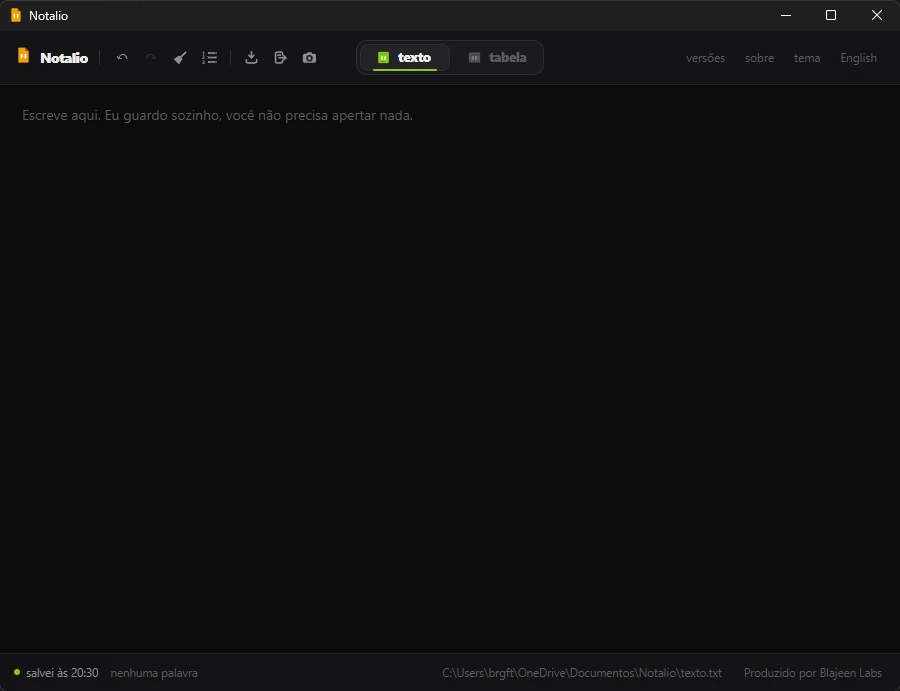
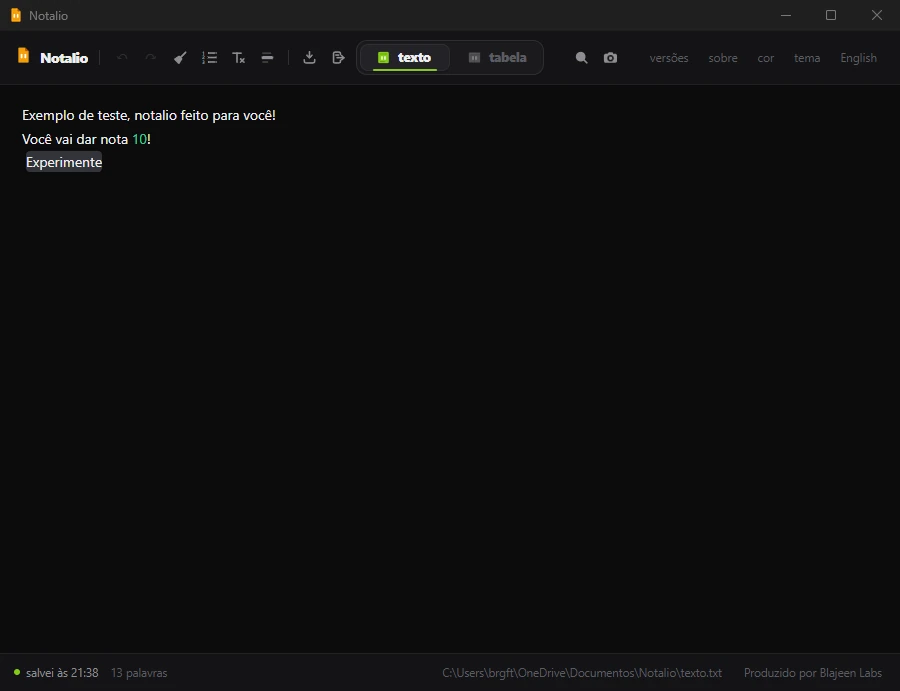
Notalio: marca-texto, cor da letra, e a captura atualizada
O programa ganhou três coisas desde a página ir ao ar, e página que fica pra trás do
programa mente por omissão.

Arrumar virou três itens em vez de um, porque viraram três coisas diferentes: arrumar
sem mexer na ordem, a lista com marca-texto e o botão de limpar, e as quatro cores de
letra. O marca-texto merece a explicação que ele tem: a marca fica dentro do arquivo,
escrita entre crases, então ela sobrevive a fechar o programa e o arquivo continua
abrindo no Bloco de Notas — que é a segunda promessa do produto, e ela não podia quebrar
por causa de um destaque cinza.

Ctrl+M e Ctrl+D entraram nos atalhos e no guia, e o Ctrl+L ganhou o Shift que troca
número por marcador. O item "cor" apareceu na lista da direita.

A captura é nova, e foi trocada porque a antiga mostrava uma barra de ferramentas que
não existe mais — faltavam a lupa, o limpar e o marca-texto. Nela dá pra ver as duas
coisas que só se entendem vendo: o retângulo cinza atrás de um trecho, e o número
saindo numa cor diferente do resto da linha.

Terceira recompilação, terceiro par de hashes. Conferi os quatro números contra os
arquivos antes de publicar, troquei os binários e as notas da release e o SHA256SUMS.

lint, typecheck, test (109), check:content e build passando.

diff --git a/src/content/produtos.ts b/src/content/produtos.ts
@@ -401,9 +401,9 @@ export const notalio: Aplicativo = {
   ],
   imagem: {
     src: '/produtos/notalio/tela.webp',
-    alt: 'A janela do Notalio no caderno de texto, com o interruptor que troca entre texto e tabela no alto, e a barra de baixo mostrando a hora em que ele guardou sozinho.',
+    alt: 'A janela do Notalio no caderno de texto, com três linhas escritas: uma delas tem um trecho marcado com um retângulo cinza atrás das letras, e o número dez aparece numa cor diferente do resto. No alto fica o interruptor que troca entre texto e tabela.',
     legenda:
-      'O caderno de texto. No alto, o interruptor que troca pro de tabela; embaixo, a hora em que ele guardou por conta própria.',
+      'O caderno de texto, com um trecho marcado e o número saindo na cor dele. No alto, o interruptor que troca pro caderno de tabela; embaixo, a hora em que ele guardou por conta própria.',
   },
   faz: [
     {
@@ -422,9 +422,19 @@ export const notalio: Aplicativo = {
         'Duas colunas com linhas de grade visíveis. Vírgula, aspas e quebra de linha dentro de uma célula são tratadas certo — e um arquivo salvo pelo Excel em português, que usa ponto e vírgula, continua abrindo.',
     },
     {
-      titulo: 'Arrumar e numerar',
+      titulo: 'Arruma sem mudar a sua ordem',
       texto:
-        'Arrumar tira linha repetida, deixa todo marcador de lista igual e aperta o espaçamento — sem nunca mudar a ordem do que você escreveu. Numerar põe 1-, 2-, 3- na frente das linhas que você marcou.',
+        'Tira linha repetida, deixa todo marcador de lista igual e aperta o espaçamento. Num brainstorm a ordem é o seu pensamento, e ele nunca mexe nela.',
+    },
+    {
+      titulo: 'Lista, marca-texto e limpar',
+      texto:
+        'Vira as linhas em lista com marcadores ou numerada. Destaca um trecho com um retângulo cinza atrás das letras — e essa marca fica dentro do arquivo, entre crases, então ela sobrevive a fechar o programa e continua abrindo no Bloco de Notas. E um botão que limpa tudo isso de volta.',
+    },
+    {
+      titulo: 'A letra é do jeito que você quiser',
+      texto:
+        'Quatro cores de letra, uma escolha por caderno. E os números sempre saem numa cor própria, com qualquer tema e qualquer cor de letra — porque número no meio do texto é o que o olho procura primeiro.',
     },
     {
       titulo: 'Acha e troca o que você quiser',
@@ -518,9 +528,21 @@ export const notalio: Aplicativo = {
             'Tira linha repetida, deixa todo marcador de lista igual e aperta o espaçamento. Nunca muda a ordem do que você escreveu — se não gostar, é só desfazer.',
         },
         {
-          nome: 'Numerar',
-          teclas: 'Ctrl+L',
-          texto: 'Põe 1-, 2-, 3- na frente das linhas que você marcou.',
+          nome: 'Lista',
+          teclas: 'Ctrl+L, ou Shift+Ctrl+L',
+          texto:
+            'Vira as linhas que você marcou numa lista numerada — 1-, 2-, 3-. Com Shift, a lista sai com marcadores em vez de números.',
+        },
+        {
+          nome: 'Limpar a formatação',
+          teclas: 'Ctrl+D',
+          texto: 'Tira as marcas e a formatação do trecho, deixando o texto puro de novo.',
+        },
+        {
+          nome: 'Marca-texto',
+          teclas: 'Ctrl+M',
+          texto:
+            'Destaca o trecho com um retângulo cinza atrás das letras. A marca fica dentro do arquivo, escrita entre crases: ela sobrevive a fechar o programa, e o arquivo continua abrindo no Bloco de Notas do Windows.',
         },
         {
           nome: 'Trazer um arquivo',
@@ -552,6 +574,11 @@ export const notalio: Aplicativo = {
             'Mostra o que estava escrito antes, até 100 por caderno. Trazer uma de volta guarda a de agora antes — nem isso é caminho sem volta.',
         },
         { nome: 'sobre', texto: 'O que o programa é, e onde ficam os seus arquivos.' },
+        {
+          nome: 'cor',
+          texto:
+            'Quatro cores de letra, uma escolha por caderno. Os números saem numa cor própria de qualquer jeito — com qualquer tema e qualquer cor escolhida —, porque número no meio do texto é o que o olho procura primeiro.',
+        },
         { nome: 'tema', teclas: 'Shift+X', texto: 'Troca entre escuro e claro.' },
         {
           nome: 'português / English',
@@ -581,7 +608,9 @@ export const notalio: Aplicativo = {
     { teclas: 'Ctrl+Tab', faz: 'troca de caderno' },
     { teclas: 'Ctrl+Z / Ctrl+Y', faz: 'desfaz e avança' },
     { teclas: 'Ctrl+E', faz: 'arruma' },
-    { teclas: 'Ctrl+L', faz: 'numera' },
+    { teclas: 'Ctrl+L', faz: 'numera (com Shift, marcadores)' },
+    { teclas: 'Ctrl+M', faz: 'marca o trecho' },
+    { teclas: 'Ctrl+D', faz: 'limpa a formatação' },
     { teclas: 'Ctrl+O', faz: 'traz um arquivo' },
     { teclas: 'Ctrl+S', faz: 'salva uma cópia' },
     { teclas: 'Ctrl+P', faz: 'tira a foto da janela' },
@@ -604,7 +633,7 @@ export const notalio: Aplicativo = {
       paraQuem:
         'O normal. Instala pro seu usuário sem pedir senha de administrador, e aparece em "Adicionar ou remover programas" como qualquer programa. Pergunta o idioma na instalação, e em Windows 10 sem o WebView2 ele resolve isso sozinho.',
       recomendado: true,
[2 lines of base64/hex data omitted]
     },
     {
       id: 'portatil',
@@ -613,7 +642,7 @@ export const notalio: Aplicativo = {
       tamanho: '3,1 MB',
       paraQuem:
         'Não instala nada: roda direto, inclusive de pendrive. Seus arquivos continuam indo pra Documentos\\Notalio.',
[2 lines of base64/hex data omitted]
     },
   ],
   avisoDoWindows: {
